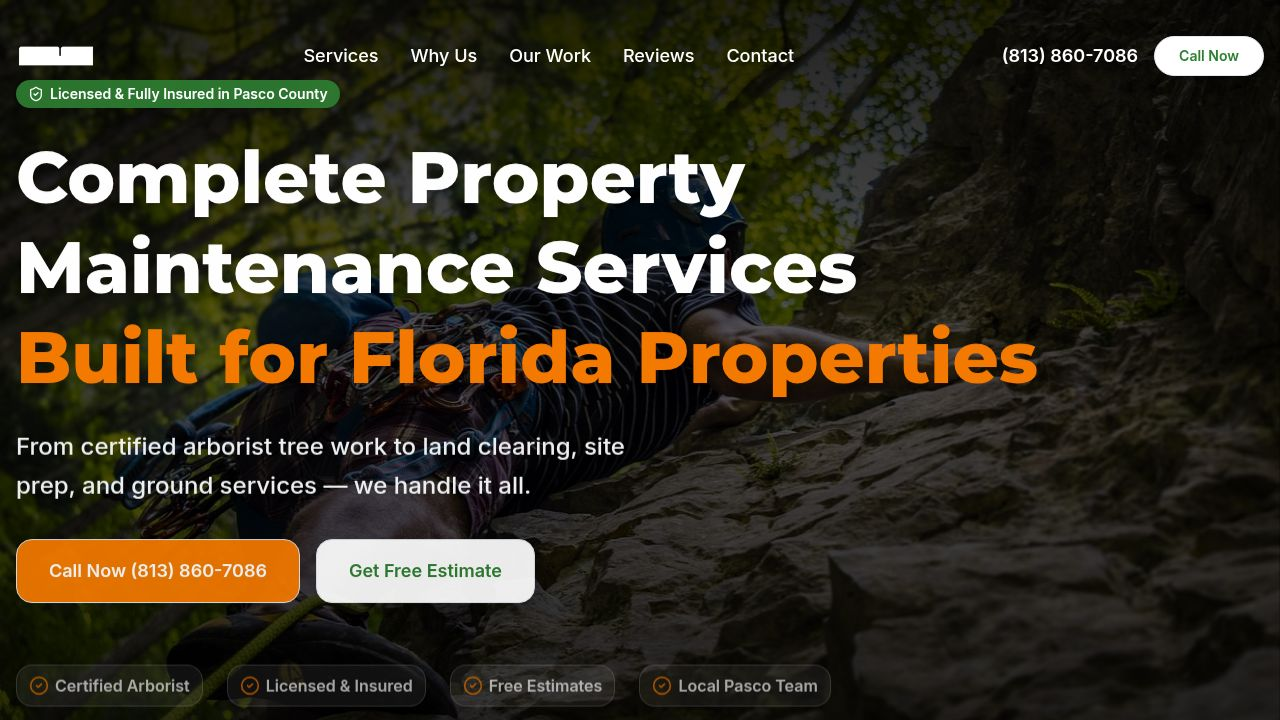
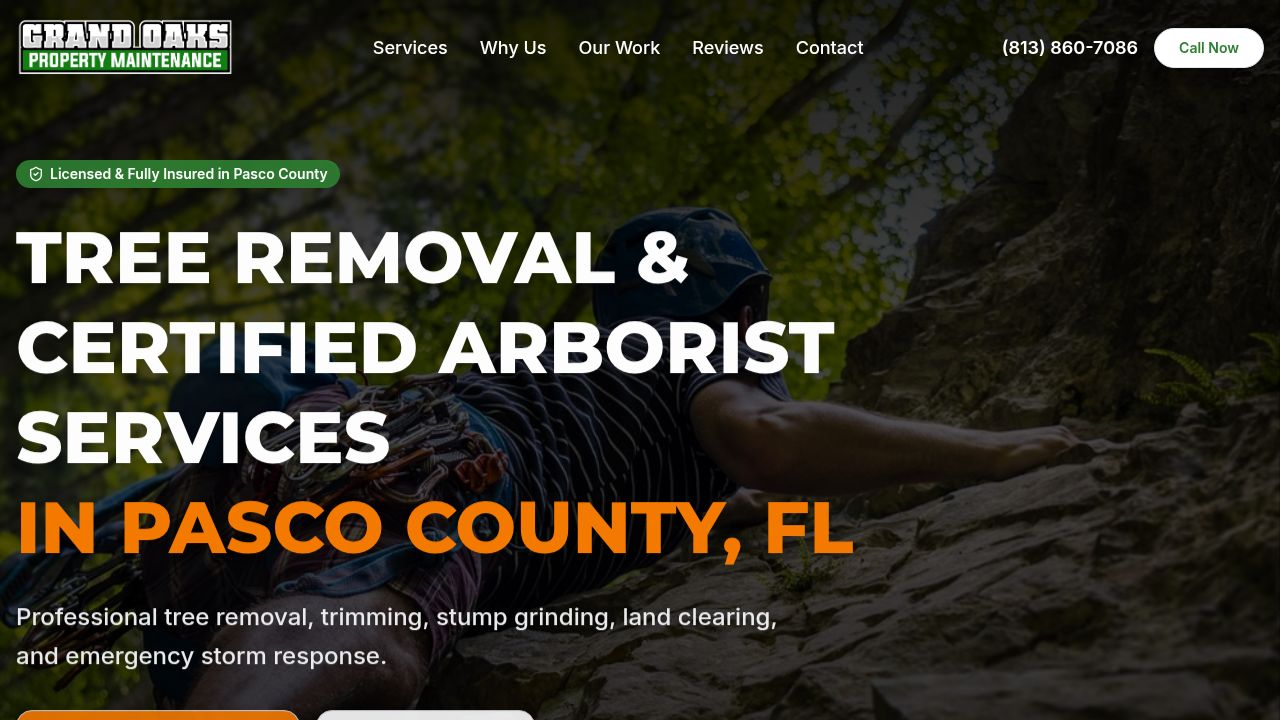
Update website copy and services to focus on Pasco County tree care
Refactors the `Hero`, `Services`, `ContactForm`, and `Footer` components to update the website's copy and service offerings to specifically highlight tree removal and related services in Pasco County.

Replit-Commit-Author: Agent
Replit-Commit-Session-Id: bf870ed8-5a76-488e-b395-7ac07492c5f7
Replit-Commit-Checkpoint-Type: full_checkpoint
Replit-Commit-Event-Id: b4e0af6e-a72d-422f-aecc-bb88563554e2
Replit-Commit-Screenshot-Url: https://storage.googleapis.com/screenshot-production-us-central1/4c9c0030-31a8-4c4c-ad04-f82a97797d71/bf870ed8-5a76-488e-b395-7ac07492c5f7/hdZpH7b
Replit-Helium-Checkpoint-Created: true

diff --git a/client/src/components/landing/Services.tsx b/client/src/components/landing/Services.tsx
@@ -4,34 +4,29 @@ import { ArrowRight } from "lucide-react";
 
 const services = [
   {
-    title: "Tree Services",
-    desc: "Complete tree care including removal, trimming, stump grinding, and emergency storm response.",
+    title: "Tree Removal",
+    desc: "Safe removal of hazardous, dead, or unwanted trees of any size using professional climbing or crane techniques.",
     image: "/images/service-removal.jpg"
   },
   {
-    title: "Land Clearing & Forestry",
-    desc: "Professional forestry mulching and large-scale land clearing for lots of any size.",
-    image: "/images/service-forestry.jpg"
+    title: "Tree Trimming",
+    desc: "Expert pruning to promote tree health, safety, and aesthetics, performed by certified arborists.",
+    image: "/images/service-trimming.jpg"
   },
   {
-    title: "Site Prep & Property Development",
-    desc: "Excavation, grading, and site preparation to get your property ready for construction.",
-    image: "/images/service-siteprep.jpg"
+    title: "Stump Grinding",
+    desc: "Complete stump removal to reclaim your yard and prevent pests, leaving your property clean and level.",
+    image: "/images/service-stump.jpg"
   },
   {
-    title: "Property Cleanup & Maintenance",
-    desc: "Overgrown lot cleanup, debris removal, and restoring neglected properties to pristine condition.",
-    image: "/images/service-cleanup.jpg"
+    title: "Land Clearing",
+    desc: "Efficient lot clearing and forestry mulching for new construction, pasture restoration, or property usage.",
+    image: "/images/service-clearing.jpg"
   },
   {
-    title: "Grounds & Lawn Services",
-    desc: "Routine lawn care, mowing, and landscape maintenance for residential and commercial properties.",
-    image: "/images/service-grounds.jpg"
-  },
-  {
-    title: "Driveways & Ground Surfaces",
-    desc: "Installation and repair of gravel driveways, culverts, and ground surface grading.",
-    image: "/images/service-driveways.jpg"
+    title: "Emergency Tree Services",
+    desc: "24/7 rapid response for storm damage and dangerous fallen trees threatening your home or business.",
+    image: "/images/service-emergency.jpg"
   }
 ];
 
@@ -42,14 +37,14 @@ export default function Services() {
         <div className="text-center max-w-3xl mx-auto mb-16">
           <h2 className="text-brand-green text-sm font-bold tracking-widest uppercase mb-3">Our Services</h2>
           <h3 className="text-3xl md:text-5xl font-extrabold text-brand-charcoal mb-4">
-            Complete Property Solutions
+            Expert Tree Care & Land Solutions
           </h3>
           <p className="text-gray-600 text-lg">
-            Grand Oaks offers more than just tree care. We provide comprehensive property maintenance and development services for homeowners and businesses.
+            Grand Oaks specializes in professional tree services and land clearing for homeowners and businesses in Pasco County.
           </p>
         </div>
 
-        <div className="grid grid-cols-1 md:grid-cols-2 lg:grid-cols-3 gap-8">
+        <div className="grid grid-cols-1 md:grid-cols-2 lg:grid-cols-3 gap-8 justify-center">
           {services.map((service, index) => (
             <Card key={index} className="group overflow-hidden border-none shadow-lg hover:shadow-xl transition-shadow rounded-2xl bg-gray-50 flex flex-col h-full">
               <div className="relative h-64 overflow-hidden">

diff --git a/client/src/components/landing/Hero.tsx b/client/src/components/landing/Hero.tsx
@@ -49,15 +49,15 @@ export default function Hero() {
         </div>
 
         {/* Headline - Responsive sizing */}
-        <h1 className="text-3xl sm:text-4xl md:text-6xl lg:text-7xl font-extrabold text-white leading-tight mb-3 md:mb-6 drop-shadow-lg max-w-5xl animate-in fade-in slide-in-from-bottom-6 duration-700 delay-100">
-          Complete Property <br className="hidden md:block" />
-          Maintenance Services <br />
-          <span className="text-brand-orange block mt-1 md:inline">Built for Florida Properties</span>
+        <h1 className="text-3xl sm:text-4xl md:text-6xl lg:text-7xl font-extrabold text-white leading-tight mb-3 md:mb-6 drop-shadow-lg max-w-5xl animate-in fade-in slide-in-from-bottom-6 duration-700 delay-100 uppercase">
+          Tree Removal & <br className="hidden md:block" />
+          Certified Arborist Services <br />
+          <span className="text-brand-orange block mt-1 md:inline">In Pasco County, FL</span>
         </h1>
 
         {/* Subheadline - Concise on mobile */}
-        <p className="text-base sm:text-lg md:text-2xl text-gray-100 mb-6 md:mb-8 max-w-xl md:max-w-2xl font-medium drop-shadow-md animate-in fade-in slide-in-from-bottom-8 duration-700 delay-200 leading-relaxed px-2 md:px-0">
-          From certified arborist tree work to land clearing, site prep, and ground services — we handle it all.
+        <p className="text-base sm:text-lg md:text-2xl text-gray-100 mb-6 md:mb-8 max-w-xl md:max-w-3xl font-medium drop-shadow-md animate-in fade-in slide-in-from-bottom-8 duration-700 delay-200 leading-relaxed px-2 md:px-0">
+          Professional tree removal, trimming, stump grinding, land clearing, and emergency storm response.
         </p>
 
         {/* CTAs - Full width on mobile, side-by-side on desktop */}

diff --git a/client/src/components/landing/Footer.tsx b/client/src/components/landing/Footer.tsx
@@ -20,12 +20,11 @@ export default function Footer() {
           <div>
             <h4 className="font-bold text-lg mb-6 text-brand-green">Services</h4>
             <ul className="space-y-3 text-gray-300">
-              <li><a href="#" className="hover:text-white transition-colors">Tree Services</a></li>
-              <li><a href="#" className="hover:text-white transition-colors">Land Clearing & Forestry</a></li>
-              <li><a href="#" className="hover:text-white transition-colors">Site Prep & Development</a></li>
-              <li><a href="#" className="hover:text-white transition-colors">Property Cleanup</a></li>
-              <li><a href="#" className="hover:text-white transition-colors">Grounds & Lawn</a></li>
-              <li><a href="#" className="hover:text-white transition-colors">Driveways</a></li>
+              <li><a href="#" className="hover:text-white transition-colors">Tree Removal</a></li>
+              <li><a href="#" className="hover:text-white transition-colors">Tree Trimming</a></li>
+              <li><a href="#" className="hover:text-white transition-colors">Stump Grinding</a></li>
+              <li><a href="#" className="hover:text-white transition-colors">Land Clearing</a></li>
+              <li><a href="#" className="hover:text-white transition-colors">Emergency Tree Services</a></li>
             </ul>
           </div>
 

diff --git a/client/src/components/landing/ContactForm.tsx b/client/src/components/landing/ContactForm.tsx
@@ -81,12 +81,11 @@ export default function ContactForm() {
                     <SelectValue placeholder="Select a service" />
                   </SelectTrigger>
                   <SelectContent>
-                    <SelectItem value="tree-services">Tree Services</SelectItem>
-                    <SelectItem value="land-clearing">Land Clearing & Forestry</SelectItem>
-                    <SelectItem value="site-prep">Site Prep & Property Development</SelectItem>
-                    <SelectItem value="cleanup">Property Cleanup & Maintenance</SelectItem>
-                    <SelectItem value="grounds">Grounds & Lawn Services</SelectItem>
-                    <SelectItem value="driveways">Driveways & Ground Surfaces</SelectItem>
+                    <SelectItem value="removal">Tree Removal</SelectItem>
+                    <SelectItem value="trimming">Tree Trimming</SelectItem>
+                    <SelectItem value="stump">Stump Grinding</SelectItem>
+                    <SelectItem value="clearing">Land Clearing</SelectItem>
+                    <SelectItem value="emergency">Emergency Tree Services</SelectItem>
                     <SelectItem value="other">Other</SelectItem>
                   </SelectContent>
                 </Select>
